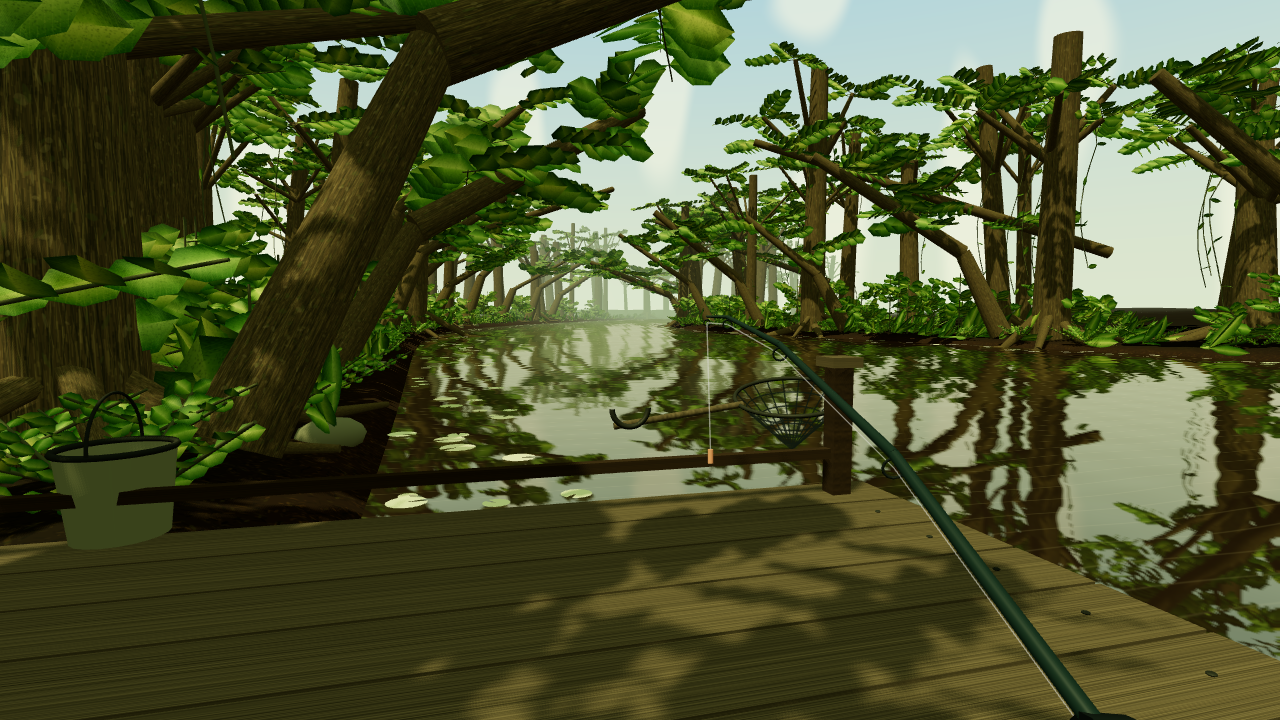
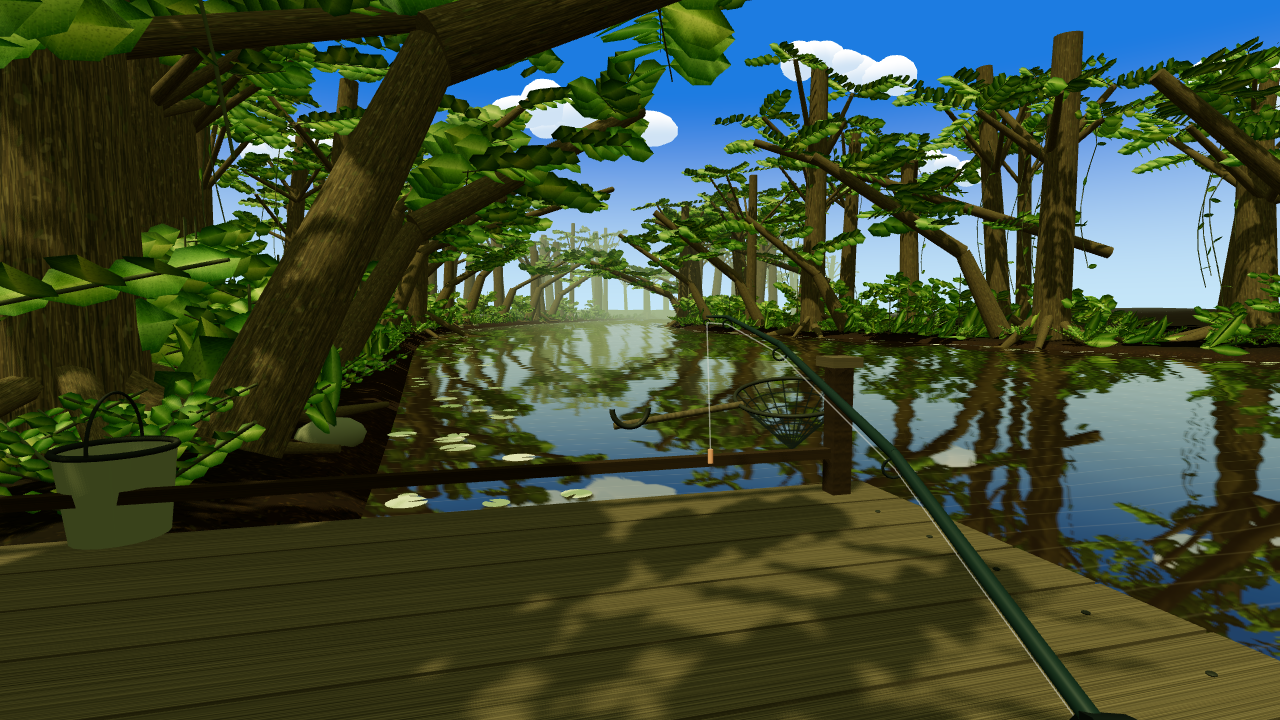
fix: match Amazon sky to the first lake

diff --git a/amazon-scene.js b/amazon-scene.js
@@ -170,7 +170,18 @@ export function createMap(parent,camera,renderer,config=AMAZON_CONFLUENCE,{share
     for(let j=1;j<5;j++)for(let k=0;k<40;k++){const a=k*Math.PI/20,b=(k+1)*Math.PI/20,r=.43*(1-j/5);strings.push(Math.cos(a)*r,-.45*j/5,Math.sin(a)*r,Math.cos(b)*r,-.45*j/5,Math.sin(b)*r);}
     const ng=new THREE.BufferGeometry();ng.setAttribute('position',new THREE.Float32BufferAttribute(strings,3));net.add(new THREE.LineSegments(ng,new THREE.LineBasicMaterial({color:'#222b20',transparent:true,opacity:.8})));
     const netHandle=mesh(cylinder,woodMat,[-.9,0,0],[.025,1.0,.025],net);netHandle.rotation.z=Math.PI/2;
-    const sky=mesh(new THREE.SphereGeometry(270,20,12),new THREE.ShaderMaterial({side:THREE.BackSide,depthWrite:false,vertexShader:'varying vec3 direction;void main(){direction=position;gl_Position=projectionMatrix*modelViewMatrix*vec4(position,1.);}',fragmentShader:`varying vec3 direction;void main(){vec3 d=normalize(direction);float h=max(0.,d.y);vec3 c=mix(vec3(.72,.79,.62),vec3(.39,.64,.73),smoothstep(0.,.65,h));float cloud=sin(d.x*27.+sin(d.z*19.))*sin(d.z*31.-d.x*7.);c=mix(c,vec3(.95,.94,.78),smoothstep(.22,.68,cloud)*.55);float glow=pow(max(dot(d,normalize(vec3(-18.,34.,16.))),0.),22.);c+=vec3(.28,.22,.1)*glow;gl_FragColor=vec4(c,1.);#include <colorspace_fragment>}`.replace('#include','\n#include')}));sky.castShadow=sky.receiveShadow=false;sky.frustumCulled=false;
+    // Same blue gradient and seeded white cloud banks as the first lake.
+    // A separate seed keeps the Amazon vegetation/lily layout unchanged.
+    let skySeed=17329;
+    const skyRange=(a,b)=>{skySeed=(1664525*skySeed+1013904223)>>>0;return a+(b-a)*skySeed/4294967296;};
+    const sky=mesh(new THREE.SphereGeometry(300,24,14),new THREE.ShaderMaterial({side:THREE.BackSide,depthWrite:false,vertexShader:'varying vec3 vDir;void main(){vDir=position;gl_Position=projectionMatrix*modelViewMatrix*vec4(position,1.);}',fragmentShader:`varying vec3 vDir;void main(){vec3 d=normalize(vDir);float h=clamp(d.y,0.,1.);vec3 c=mix(vec3(.56,.79,.94),vec3(.012,.20,.75),smoothstep(0.,.35,h));float glow=pow(max(dot(d,normalize(vec3(-38.,62.,24.))),0.),32.);c+=vec3(.18,.13,.035)*glow;gl_FragColor=vec4(c,1.);
+      #include <colorspace_fragment>
+    }`}));sky.castShadow=false;sky.receiveShadow=false;sky.frustumCulled=false;
+    const cloudPool=pool(new THREE.SphereGeometry(1,10,7),new THREE.ShaderMaterial({vertexShader:'varying vec3 cloudNormal;void main(){cloudNormal=normal;gl_Position=projectionMatrix*modelViewMatrix*instanceMatrix*vec4(position,1.);}',fragmentShader:`varying vec3 cloudNormal;void main(){float light=smoothstep(-.7,.65,normalize(cloudNormal).y-normalize(cloudNormal).x*.2);gl_FragColor=vec4(mix(vec3(.63,.77,.91),vec3(1.),light),1.);
+      #include <colorspace_fragment>
+    }`}),false);
+    for(let i=0;i<14;i++){const a=skyRange(0,Math.PI*2),r=skyRange(105,170),x=Math.cos(a)*r,z=-15+Math.sin(a)*r,y=skyRange(34,56),s=skyRange(2.8,5.5);for(let j=0;j<7;j++)cloudPool.add([x+(j-3)*s*.95,y+Math.sin(j*.9)*s*.5,z+skyRange(-2,2)],[s*skyRange(.85,1.5),s*skyRange(.65,1.1),s*.8],null,'#ffffff');}
+
     // River water reflects the actual current scene. Reflection resolution/frequency are bounded.
     const reflectionTarget=new THREE.WebGLRenderTarget(...config.quality.fine.reflection,{depthBuffer:true});targets.push(reflectionTarget);
     const reflectionCamera=new THREE.PerspectiveCamera(),reflectionMatrix=new THREE.Matrix4(),lookDirection=new THREE.Vector3(),lookTarget=new THREE.Vector3();

diff --git a/maps/amazon-confluence.js b/maps/amazon-confluence.js
@@ -5,7 +5,7 @@ export const AMAZON_CONFLUENCE=freeze({
   id:'amazon-confluence',name:'亚马逊 · 河道交汇区',
   spawn:{position:[-13,1.82,28],yaw:-.26,pitch:-.075},
   water:{level:0,minZ:-210,maxZ:48,halfWidth:13,platform:{minX:-21.85,maxX:-10.15,minZ:23.77,maxZ:33.35}},
-  environment:{background:'#bbc5a2',fog:{color:'#a5b78f',near:55,far:170},exposure:.94},
+  environment:{background:'#49a4ef',fog:{color:'#a5b78f',near:55,far:170},exposure:.94},
   quality:{fine:{reflection:[768,480],reflectionEvery:3},fast:{reflection:[448,280],reflectionEvery:5}},
   labels:{castHint:'请面向河道水面，再按空格抛竿',reset:'已回到亚马逊木平台钓位'}
 });

diff --git a/AGENTS.md b/AGENTS.md
@@ -33,6 +33,6 @@
 - 用户约定：以后默认只修改电脑版fisher-realm；只有用户明确说手机版时才更新realm-owner-mobile。
 - 电脑版入口为世界地图，光点首次预览、再次进入现有3D场景；预览用截图，不构建额外3D。地图ID仍summer-pond，显示名为美国奥基乔比湖，不改鱼池、概率和场景造型。场景点击仓库须先按既有规则中断钓鱼并成功保存，再回世界地图并自动打开仓库；仓库关闭留在地图，正常清鱼堆规则不变。世界界面不运行3D渲染；各存档与背包图鉴仍全局共用。
 
-- 亚马逊已确认：光点地理位置为巴西玛瑙斯附近的内格罗河/索利芒斯河交汇区，场景外观参考用户“亚马逊地图.png”的雨林木平台；固定第一人称，写实方向，约25帧目标。普通遇鱼仅罗非鱼100%，其他鱼在此地图为0%；不改鱼资料或旧地图概率。单鱼种地图亮片照常选择最高价、原子扣量并计算，最终概率仍100%；管理员指定全局鱼种继续不消耗亮片。
+- 亚马逊已确认：光点地理位置为巴西玛瑙斯附近的内格罗河/索利芒斯河交汇区，场景外观参考用户“亚马逊地图.png”的雨林木平台；固定第一人称，写实方向，约25帧目标；天空沿用第一个湖泊地图的蓝天白云。普通遇鱼仅罗非鱼100%，其他鱼在此地图为0%；不改鱼资料或旧地图概率。单鱼种地图亮片照常选择最高价、原子扣量并计算，最终概率仍100%；管理员指定全局鱼种继续不消耗亮片。
 - 运行时由 `map-session.js` 独占当前地图与钓鱼展示；同一渲染器/相机/鱼竿和一套全局输入。世界界面为零地图实例；离开时释放地图、钓鱼展示、音频及反射资源，先释放旧图才创建新图。切图保留当前页管理员剩余次数，刷新仍重置；存档资产、图鉴和任务不随地图重建。帮助、图鉴和商店概率每次打开读取当前地图上下文，亮片缓存按地图概率表隔离。
 - 增图须同步地图注册、世界光点资料及 package.json 模块清单；预览使用实际场景截图。新图几何岸线与水域规则共用参数，平台属于陆地，水波显示在实际水面。增加地图后维护 `tests/browser/amazon.cjs` 的单实例、反复释放、构建失败恢复与跨地图存档检查；新增鱼的测试夹具自动跟随静态代码依赖，不复制/处理旧鱼图片。
